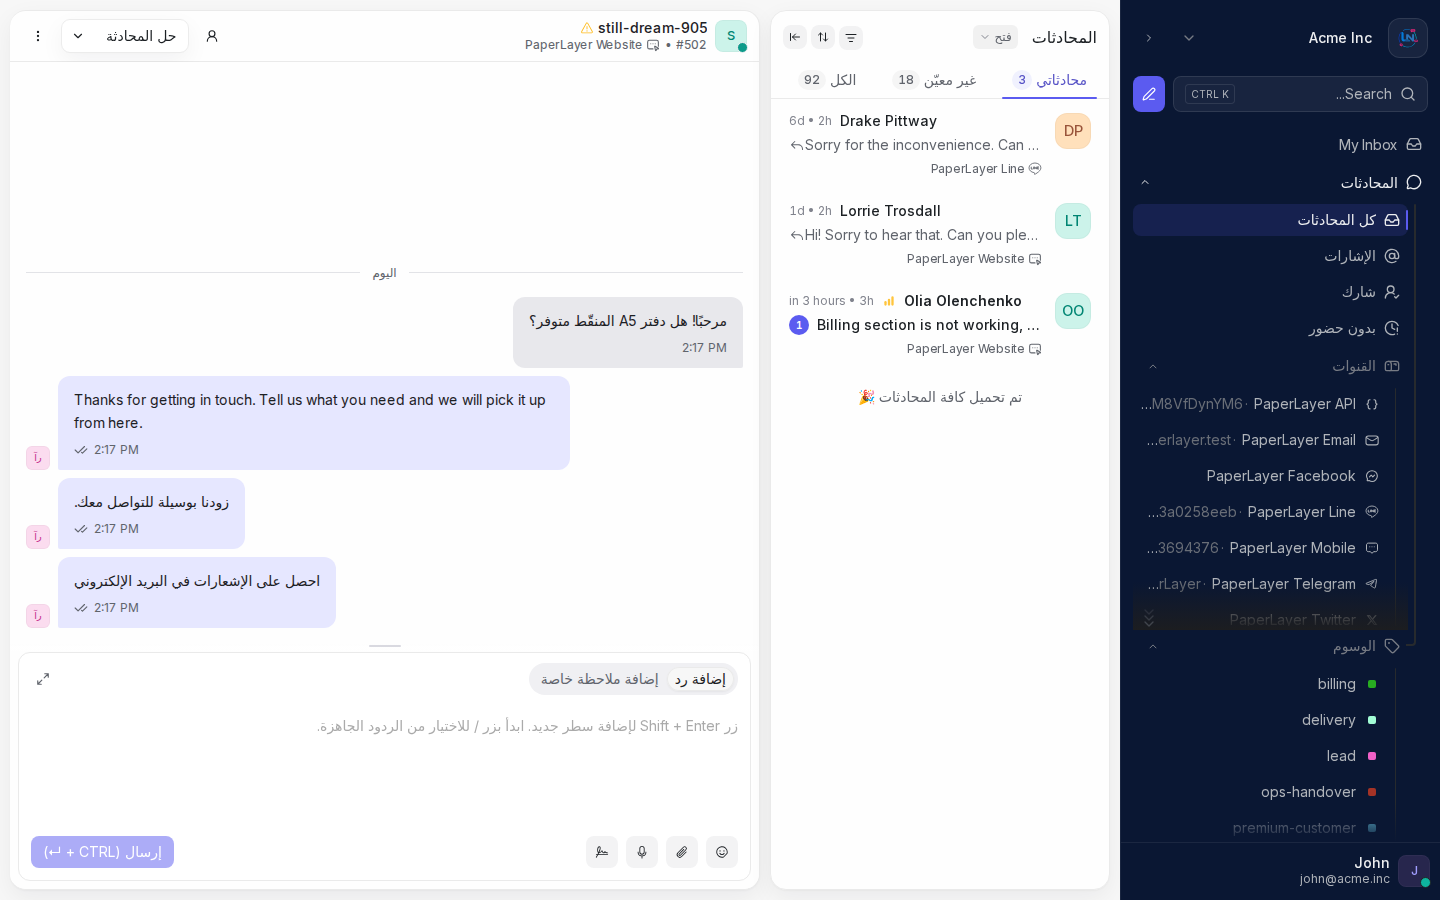
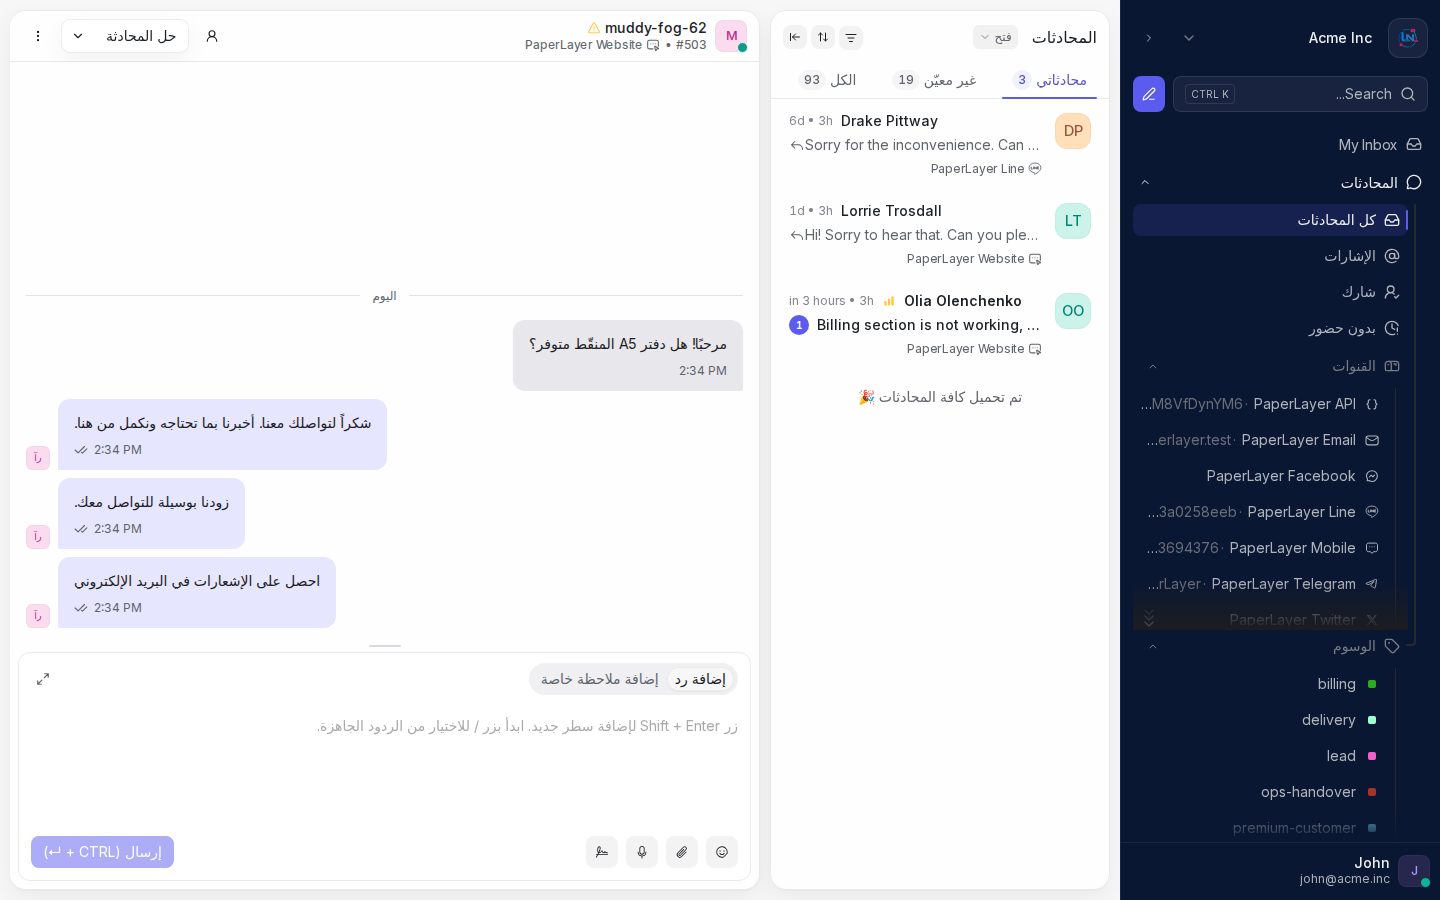
fix(docs): the Arabic widget figures show an Arabic widget
The welcome heading, the tagline and the greeting are not the widget's
chrome. They are three fields an operator types into the channel, stored
once and sent to every visitor exactly as written, whatever language that
visitor reads in. The widget translated everything around them, so the
Arabic figures came out as an Arabic widget with an English heading in it
and the tagline's full stop stranded on the wrong end of the line --
published under a caption saying this is what an Arabic visitor sees.

Both languages' wording now lives in tools/visual/widget_copy.rb, which
the fixture reads for English so the two cannot drift, and the Arabic
figures are taken against the Arabic set. Re-captured and republished:
the open widget and the agent's view of what arrives, which now carries
the Arabic greeting. The closed bubble came out byte-identical, as it
should -- it carries no words.

docs/screenshots/README.md documents the capture sequence, which was
previously only in the script's own header.

Claude-Session: https://claude.ai/code/session_01Qyt7wbs6rdsoHQGX2qYxHT

diff --git a/tools/visual/widget_copy.rb b/tools/visual/widget_copy.rb
@@ -1,0 +1,47 @@
+# THE DEMO SHOP'S OWN WORDS, IN THE READER'S LANGUAGE.
+#
+# The widget translates its own chrome from the visitor's browser language: "We are online", the reply-time
+# estimate, Start Conversation, the Lynomia Chat byline. The WELCOME HEADING, the TAGLINE and the GREETING
+# are not chrome. They are three fields an operator types into the channel, stored once and sent to every
+# visitor exactly as written, whatever language that visitor reads in.
+#
+# So the Arabic figure captured against the English channel came out as an Arabic widget with an English
+# heading in it, the tagline's full stop stranded on the wrong end of the line -- a picture of a shop that
+# has not finished setting its widget up, published under a caption saying this is what the visitor sees.
+# An Arabic operator's widget says these three things in Arabic, so the Arabic figure is taken against a
+# channel that does.
+#
+# Both sets live here, rather than in the fixture and again in the capture, so the two cannot drift.
+#
+#   bundle exec rails runner 'require "./tools/visual/widget_copy"
+#     WidgetCopy.apply!(Account.first.inboxes.find_by!(channel_type: "Channel::WebWidget"), "ar")'
+module WidgetCopy
+  # PaperLayer is a stationery shop that does not exist (`tools/visual/widget-host/index.html`). The navy is
+  # the colour its own page uses, which is the point -- the widget takes the colour of the site it sits on.
+  COLOR = '#1B2338'.freeze
+
+  COPY = {
+    'en' => {
+      welcome_title: 'Talk to PaperLayer',
+      welcome_tagline: 'Questions about an order, a delivery or a product? Start a conversation and ' \
+                       'someone from the shop will answer.',
+      greeting: 'Thanks for getting in touch. Tell us what you need and we will pick it up from here.'
+    },
+    'ar' => {
+      welcome_title: 'تحدّث إلى PaperLayer',
+      welcome_tagline: 'سؤال عن طلب أو شحنة أو منتج؟ ابدأ محادثة وسيردّ عليك أحد موظفي المتجر.',
+      greeting: 'شكراً لتواصلك معنا. أخبرنا بما تحتاجه ونكمل من هنا.'
+    }
+  }.freeze
+
+  def self.apply!(inbox, locale)
+    words = COPY.fetch(locale)
+    inbox.channel.update!(
+      widget_color: COLOR,
+      welcome_title: words[:welcome_title],
+      welcome_tagline: words[:welcome_tagline],
+      reply_time: :in_a_few_minutes
+    )
+    inbox.update!(greeting_enabled: true, greeting_message: words[:greeting])
+  end
+end

diff --git a/tools/visual/synthetic_fixtures.rb b/tools/visual/synthetic_fixtures.rb
@@ -13,6 +13,8 @@
 # It is idempotent: re-running updates the same records rather than adding more.
 abort "refusing to run in #{Rails.env}" unless Rails.env.development?
 
+require_relative 'widget_copy'
+
 account = Account.first or abort 'no account -- run `rails db:seed` first'
 user    = account.users.first
 inboxes = account.inboxes.to_a
@@ -285,22 +287,11 @@ puts "\nconversations: #{account.conversations.count} over #{WEEK_DAYS} days   "
 # teaches nothing.
 #
 # So the demo shop's channel is set up the way the article tells a reader to set theirs up, and the figures
-# are of that. The values are the demo shop's: PaperLayer is a stationery shop that does not exist
-# (`tools/visual/widget-host/index.html`), and the navy is the one its own page uses, which is the point --
-# the widget takes the colour of the site it sits on.
+# are of that. The three fields an operator types are in `tools/visual/widget_copy.rb`, in both languages,
+# because the Arabic figures are taken against the Arabic set and a second copy here would drift from it.
 website = account.inboxes.find_by(channel_type: 'Channel::WebWidget')
 if website
-  website.channel.update!(
-    widget_color: '#1B2338',
-    welcome_title: 'Talk to PaperLayer',
-    welcome_tagline: 'Questions about an order, a delivery or a product? Start a conversation and ' \
-                     'someone from the shop will answer.',
-    reply_time: :in_a_few_minutes
-  )
-  website.update!(
-    greeting_enabled: true,
-    greeting_message: 'Thanks for getting in touch. Tell us what you need and we will pick it up from here.'
-  )
+  WidgetCopy.apply!(website, 'en')
   # AND IT HAS STAFF. `rails db:seed` creates the web widget inbox with no members at all, and the widget
   # asks the installation which AGENTS OF THIS CHANNEL are online -- `inbox.members`, not the account's
   # users. With none, every visitor is told "We are away at the moment" however many people are signed in,

diff --git a/docs/screenshots/README.md b/docs/screenshots/README.md
@@ -84,6 +84,28 @@ section, a numbered list in a documentation article. A number burnt into a PNG c
 screen reader, translated, indexed, or enlarged by a reader who needs larger type. The picture shows
 *where*; the text says *what*.
 
+## The visitor's side of the website channel
+
+`capture-widget.mjs` shoots the widget on a demo shop served from `tools/visual/widget-host/`, so the
+embed is cross-origin exactly as it is on a real site. The widget takes its language from the browser,
+and the shop takes its language from the script — but three things on it are neither: the **welcome
+heading**, the **tagline** and the **greeting** are fields an operator types into the channel, stored
+once and sent to every visitor as written. Capture an Arabic figure against an English channel and you
+publish an Arabic widget with an English heading in it.
+
+So set the channel's copy to the language you are about to shoot, and set it back afterwards:
+
+```
+bundle exec rails runner 'require "./tools/visual/widget_copy"
+  WidgetCopy.apply!(Account.first.inboxes.find_by!(channel_type: "Channel::WebWidget"), "ar")'
+node tools/visual/capture-widget.mjs --locale ar --out docs/screenshots/sources/widget
+```
+
+Both languages' wording is in `tools/visual/widget_copy.rb`, which `synthetic_fixtures.rb` also reads,
+so the fixture and the capture cannot drift apart. The widget must have members and at least one of
+them online, or every figure comes out in the away state — `tools/visual/agent_presence.rb <seconds>`
+holds that open for the length of a run.
+
 ## When a run stops signing in
 
 Each capture signs in through the real form, and the product caps concurrent sessions per user

diff --git a/docs/official-website/13-release-verification.md b/docs/official-website/13-release-verification.md
@@ -180,6 +180,21 @@ whose imperative was written `اصل`, which an Arabic reader parses first as th
 the automation figure claiming conditions and actions the picture does not contain — it shows the rows with
 their values unchosen, and the alt now says so.
 
+**The Arabic widget was an Arabic widget with an English heading in it.** The welcome heading, the tagline
+and the greeting are not the widget's chrome: they are three fields an operator types, stored on the
+channel, and sent to every visitor exactly as written. The widget translated everything around them and left
+those three in English, with the tagline's full stop stranded on the wrong end of the line — published under
+a caption saying this is what an Arabic visitor sees. Both sets now live in `tools/visual/widget_copy.rb`,
+the fixture reads the English one from there, and the Arabic figures are taken against the Arabic one.
+
+**Two claims checked and not confirmed.** A review said the preview serves homepage screenshots that are no
+longer in the repository. Measured: `marketing:screenshots:plan` reports all 24 declared images byte-current
+against their files, and every attachment on either homepage has its file on disk. Two per locale
+(`automation-editor.png`, `reports.png`) are attached but named by no declaration and used by no section —
+leftovers of this container's own iterations, not something either page serves. They are left alone: an
+operator's unreferenced upload looks identical from here, and deleting one is not a thing this release's
+tooling is allowed to do.
+
 ## Found, and deliberately not fixed here
 
 **Relative times in the Arabic dashboard are in English.** `dynamicTime` in
